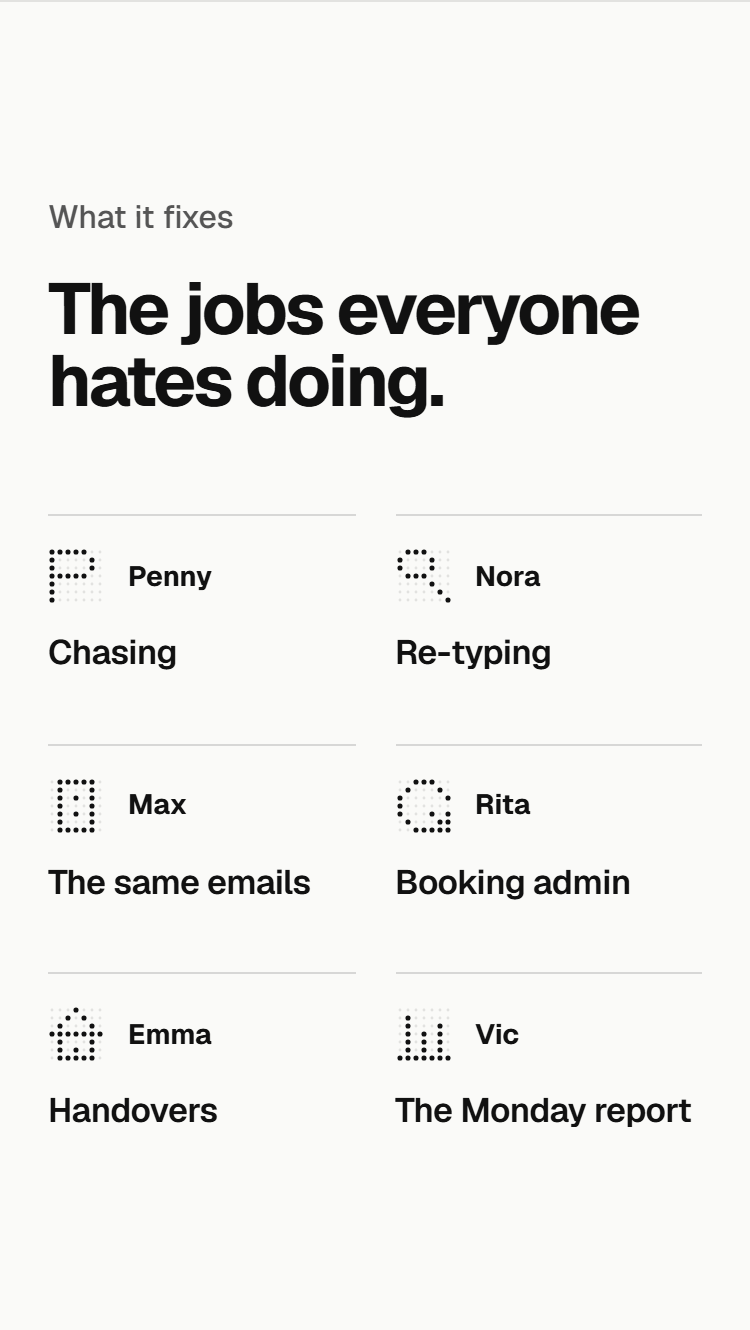
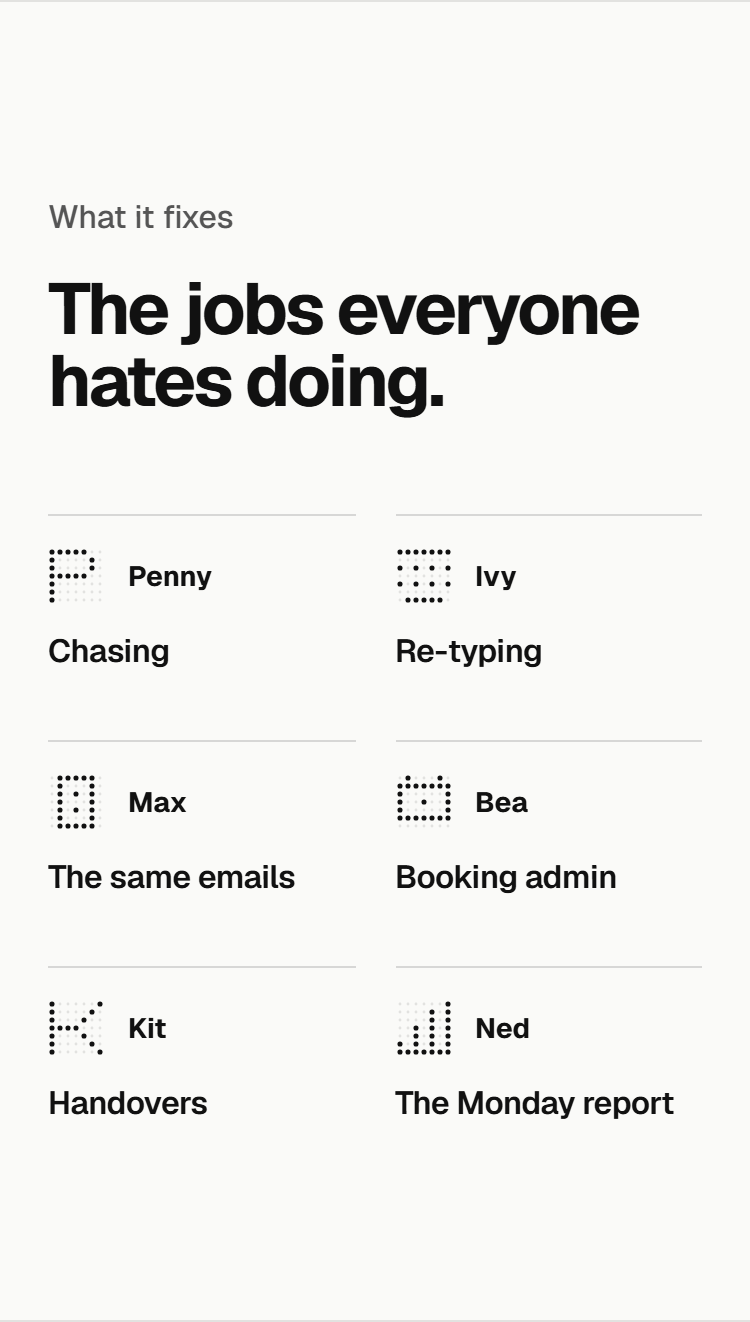
pilot what it fixes: each job under an employee that does it

diff --git a/herbertai-website/src/app/components/site/FixesGrid.js b/herbertai-website/src/app/components/site/FixesGrid.js
@@ -1,5 +1,5 @@
 'use client'
-import { Avatar, EMPLOYEES } from '../runs/employees'
+import { Avatar } from '../runs/employees'
 import { GLYPH } from '../runs/os/shared'
 
 // /pilot section 4, What it fixes (Will, 3 Nov 2026: "C"): the six office jobs
@@ -9,15 +9,26 @@ import { GLYPH } from '../runs/os/shared'
 // their own AI employee at kickoff. The six sentences are the 27 Oct details
 // pass's plain sentences. Static: /pilot does not move.
 
-const glyphOf = (name) => EMPLOYEES.find((e) => e.name === name).glyph
+// Will (4 Nov 2026: "B"): today's six jobs and sentences, each under an
+// employee that does that job (the pairings checked against the site's own
+// screens, design-taste loop/roadmap.md, 4 Nov). Penny sends document
+// reminders (finance screen), Max replies to quote questions (trades screen),
+// Kit places jobs with the tech (trades screen, given the title Dispatch here
+// as he has none elsewhere). Ivy, Bea and Ned are new example employees for
+// the three jobs nobody on the site does; their glyphs are drawn from the job
+// (a keyboard, a calendar, a bar chart).
+const G = (rows) => rows.map((r) => [...r].map((c) => c === 'X'))
+const IVY = G(['XXXXXXX', '.......', 'X.X.X.X', '.......', 'X.X.X.X', '.......', '.XXXXX.'])
+const BEA = G(['.X...X.', 'XXXXXXX', 'X.....X', 'X..X..X', 'X.....X', 'XXXXXXX', '.......'])
+const NED = G(['......X', '....X.X', '....X.X', '..X.X.X', '..X.X.X', 'X.X.X.X', 'XXXXXXX'])
 
 export const JOBS = [
   [GLYPH.penny, 'Penny', 'Requests', 'Chasing', 'Follow-ups for documents, invoices and approvals go out on time without anyone writing them.'],
-  [GLYPH.nora, 'Nora', 'Intake', 'Re-typing', 'Details entered once reach every system that needs them, instead of being keyed in three times.'],
+  [IVY, 'Ivy', 'Data Entry', 'Re-typing', 'Details entered once reach every system that needs them, instead of being keyed in three times.'],
   [GLYPH.max, 'Max', 'Sales Coordinator', 'The same emails', 'Quotes, confirmations and updates are drafted for you to check and send.'],
-  [glyphOf('Rita'), 'Rita', 'Rebookings', 'Booking admin', 'Confirmations, reschedules and reminders are handled without anyone touching the calendar.'],
-  [GLYPH.emma, 'Emma', 'Maintenance', 'Handovers', 'Job details that live in one person’s head or inbox go on one screen the whole team can see.'],
-  [glyphOf('Vic'), 'Vic', 'Margins', 'The Monday report', 'The numbers someone compiles by hand every week are compiled for you.'],
+  [BEA, 'Bea', 'Bookings', 'Booking admin', 'Confirmations, reschedules and reminders are handled without anyone touching the calendar.'],
+  [GLYPH.kit, 'Kit', 'Dispatch', 'Handovers', 'Job details that live in one person’s head or inbox go on one screen the whole team can see.'],
+  [NED, 'Ned', 'Reports', 'The Monday report', 'The numbers someone compiles by hand every week are compiled for you.'],
 ]
 
 export const NOTE = 'Example AI employees, one for each job. Yours are named at kickoff.'

diff --git a/herbertai-website/docs/design/design-pass-site-2026-09.md b/herbertai-website/docs/design/design-pass-site-2026-09.md
@@ -2357,7 +2357,7 @@ memory records the third slip. From here /pilot runs section by section:
 | 1. Hero with the form | [x] | [x] | [x] | [x] | [x] | Done 22 Oct 2026: heading, label, intro, terms, the form side, spacing (fills the first screen, card level with the heading), the phone layout (a jump button under the intro) |
 | 2. The written page | [x] | [x] | [x] | [x] | [x] | Done 22 Oct 2026: the live sheet, text centred against it, no line under the heading, label kept, the link under the sheet on phones |
 | 3. How it works | [x] | [x] | [x] | [x] | [x] | Done 30 Oct 2026: "Your first AI employee in four steps." over four stops, each its time and its title only (no rows, no prices), the second stop "Two business days" |
-| 4. What it fixes | [x] | [x] | [x] | [x] | [~] | Reopened 4 Nov 2026 (Will: "why have u determined section 4 as done"): two employee pairings are wrong and two loose, and the heading and six sentences, settled 27 Oct before the employees were added, were never read again beside them |
+| 4. What it fixes | [x] | [x] | [x] | [x] | [x] | Done 4 Nov 2026 after the redo (Will: "B"): today’s six jobs and sentences, each under an employee that does that job; fit check, words re-read and tidy all recorded below |
 | 5. After the pilot | [x] | [x] | [x] | [x] | [~] | B built 30 Oct 2026 (Will: "B, dashboard"): the stages beside the dashboard; details 1 to 4 drawn, detail 5 (the heading) kept unless a line test is asked for; awaiting Will’s picks |
 | 6. Questions | [ ] | [ ] | [ ] | [x] | [ ] | Built from the skeleton only |
 | 7. Back to the form | [ ] | [ ] | [ ] | [x] | [ ] | Built from the skeleton only |
@@ -3138,3 +3138,26 @@ phone titles that broke a word per line at 375 fixed by 16px titles in the
 two-across layout (holds at 390, 375 and 360; below 360 a two-word title
 takes two lines, as the columns are 126px). The 16px applies to the page
 today as well. Heading kept, Will’s own line. Awaiting Will’s pick.
+Will (4 Nov 2026): "B". Today’s six jobs and sentences, each under an employee that does that job.
+Built: FixesGrid’s six are Penny · Requests (Chasing), Ivy · Data Entry
+(Re-typing), Max · Sales Coordinator (The same emails), Bea · Bookings (Booking
+admin), Kit · Dispatch (Handovers), Ned · Reports (The Monday report); Will’s
+4 Nov details kept (name and job, no note, phones two across).
+
+Fit check (the 4 Nov rule), each card read against its employee: Penny sends
+document and fee reminders on the finance screen, and the card says follow-ups
+for documents, invoices and approvals go out on time; Max replies to quote
+questions and books the measure and quote on the trades screen, and the card
+says quotes, confirmations and updates are drafted to check and send; Kit
+places jobs with the tech on the trades screen, and the card says job details
+go on one screen the team can see; Ivy, Bea and Ned are new, appear nowhere
+else on the site, and their titles are the card’s job by name. The heading,
+"The jobs everyone hates doing.", and the label read again beside the six:
+both still fit. Tidy: Bea’s first calendar glyph lit 38 of 49 dots against 16
+to 23 for the other five and read as a dark block; redrawn as rings, a frame
+and one marked day (23). Verified at 1440, 1280, 1024, 375, 360 and 320, motion
+on and off: no overflow, no page or console errors, no employee line past its
+card, no stranded word in a sentence, every title on one line from 360 up
+("The Monday report" takes two lines at 320, where the columns are 126px);
+eslint clean. Sheet refreshed: `design-pass-site-2026-11-03-pilot-fixes-built.png`.
+Section 4 is done.

diff --git a/herbertai-website/docs/design/CHARTER.md b/herbertai-website/docs/design/CHARTER.md
@@ -236,11 +236,11 @@ moves. As built, 30 Oct 2026, numbered on the page in
    minutes, two business days, 14 days from your go, day 14, each stop its
    time and its title and nothing else (Will, 30 Oct: no rows, no prices).
    Layout 23 Oct, words 30 Oct.
-4. What it fixes: "The jobs everyone hates doing." and six jobs with a sentence
-   each, each under the example AI employee that takes it (name and job), no
-   note under the grid; phones show two across, names and jobs only (Will:
-   "C", then "1, 3, 2"). Reopened 4 Nov: the employees do not all match their
-   jobs, and the words were never read again beside them.
+4. What it fixes: "The jobs everyone hates doing." and today's six jobs, each
+   under an employee that does that job (Penny · Requests, Ivy · Data Entry,
+   Max · Sales Coordinator, Bea · Bookings, Kit · Dispatch, Ned · Reports),
+   name and job above the title, no note; phones two across, names and jobs
+   only. Done 4 Nov after a redo (Will: "B").
 5. What comes next (was After the pilot): "One job first. Then the system."
    and the three stages after the first AI employee (Day 14, Day 30, within
    60 days) with their prices, beside the dashboard that employee ships in,
